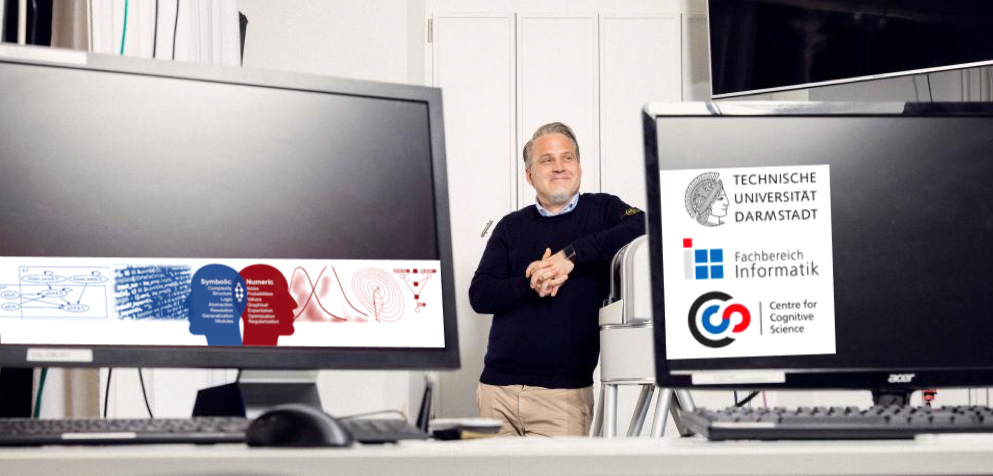
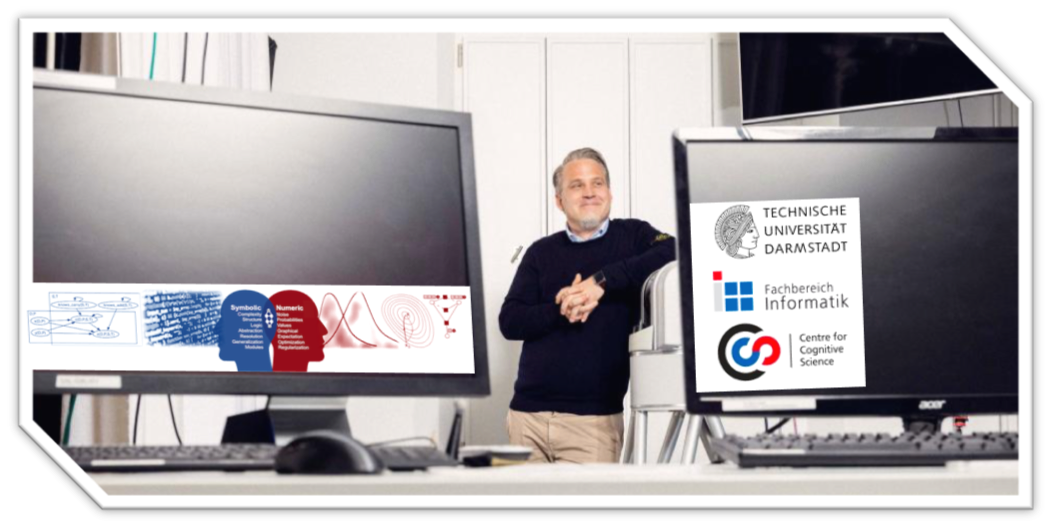
update

diff --git a/people/kkersting/index.html b/people/kkersting/index.html
@@ -124,7 +124,21 @@
 
 <main role="main">
 
+
+
 <div class="container" id="banner">  <br><br><br>
+    <div class="row">
+      <div class="col-md-8">
+
+      <img class="img-fluid" src="./../../images/bannerKris.png" style="float: left; margin: 0px 0px 10px 10px;">
+    </div>
+   <div class="clearfix"></div>
+</div>
+</div>
+
+
+
+<!--<div class="container" id="banner">  <br><br><br>
   <div class="row">
     <div class="col-md-8">
 
@@ -133,16 +147,31 @@
    <div class="col-md-4">
       <a href="https://www.tu-darmstadt.de" target="_blank"> <img class="img-fluid" src="./../../images/tud_weblogo.svg" style="margin: 19px 10px 10px 10px;height:75px"></a>
 </div>
- <div class="clearfix"></div>
+ <div class="clearfix"></div>-->
 
 
 
 <div class="container" id="mission">
 
-<div class="row">
-        <div class="col-md-2">
-<img src="./../../images/Kersting_1316tiny.jpg" class="rounded-circle" style="border:0px solid black;height:130px;margin: 10px 10px 10px 10px;">
+<!--  <div class="row">
+          <div class="col-md-2">
+  <img src="./../../images/Kersting_1316tiny.jpg" class="rounded-circle" style="border:0px solid black;height:130px;margin: 10px 10px 10px 10px;">
+            </div>
+    <div class="col-md-6">
+          <div id="htname">Prof. Dr. Kristian Kersting<span style="font-size: 18px">, FEurAI, FELLIS</span> </div>
+          <div id="htem">Computer Science Department and Centre for Cognitive Science, TU Darmstadt, Altes Hauptgebäude, Room 074, Hochschulstrasse 1, 64289 Darmstadt, Germany
+            <br><img src="./../../images/phone.png" style="height:15px"> +49-6151-16-24411 <img src="./../../images/mail.jpg" style="height:15px"> kersting (at) cs (dot) tu-darmstadt (dot) de
           </div>
+        </div>
+        <div class="col-md-4">
+          <img id="logo" class="imgsm" src="./../../images/FB20TUDAlogo.png" style="text-align: right; height:55px"></a>
+      <br>
+          <img id="logo" class="imgsm" src="./../../images/ccsLogo.jpg" style="text-align: right; height:60px"></a>
+        </div>
+  </div> -->
+
+<div class="row">
+
   <div class="col-md-6">
         <div id="htname">Prof. Dr. Kristian Kersting<span style="font-size: 18px">, FEurAI, FELLIS</span> </div>
         <div id="htem">Computer Science Department and Centre for Cognitive Science, TU Darmstadt, Altes Hauptgebäude, Room 074, Hochschulstrasse 1, 64289 Darmstadt, Germany
@@ -152,12 +181,13 @@
           <br><a href="https://www.linkedin.com/in/kerstingaiml" title="LinkedIn" class="btn btn-linkedin btn-lg" target="_blank"><i class="fa fa-linkedin fa-fw"></i> LinkedIn</a> -->
         </div>
       </div>
-      <div class="col-md-4">
+<!--      <div class="col-md-4">
         <img id="logo" class="imgsm" src="./../../images/FB20TUDAlogo.png" style="text-align: right; height:55px"></a>
     <br>
         <img id="logo" class="imgsm" src="./../../images/ccsLogo.jpg" style="text-align: right; height:60px"></a>
+      -->
       </div>
-</div>
+
 
 <!--        <img src="./../../images/kersting_plant_small.jpg" class=" circle imgme" style="border:2px solid black;height:120px;margin: 10px 1px 10px 1px;">-->
 
